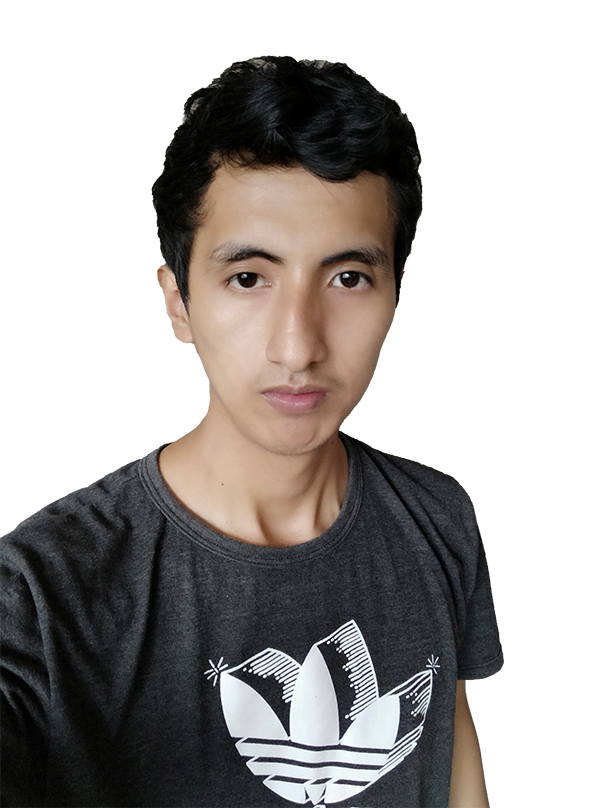
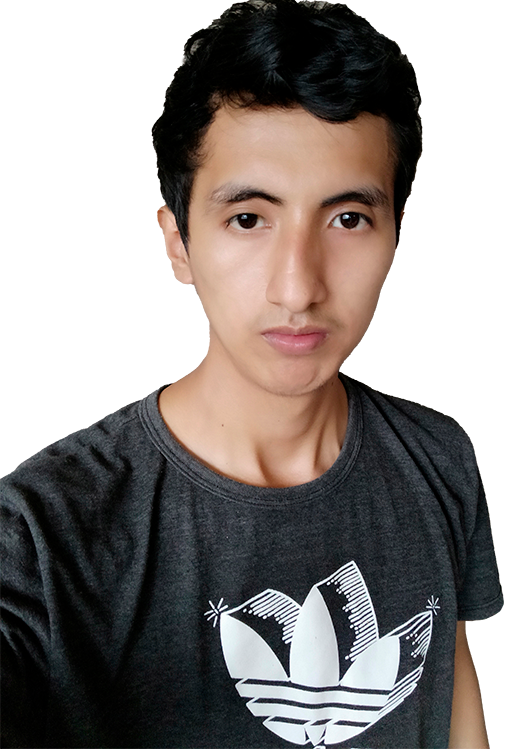
Primera parte listo, imagen escalada, botton listo

diff --git a/index.html b/index.html
@@ -24,15 +24,15 @@
         </header>
         <main class="main">
             <div class="info-content">
-                <h1>I'm <span>Jhordan</span>Cordova</h1>
+                <h1 class="name">I'm <span>Jhordan</span> Cordova</h1>
                 <p>Lorem ipsum dolor sit amet consectetur adipisicing elit. Aliquam optio exercitationem iste suscipit quae distinctio vel culpa magnam. Quasi porro aliquam sint accusamus libero a iusto, unde cumque possimus repellat!</p>
                 <a href="#" download>
-                    <button>
+                    <button class="download-cv">
                         Download CV
                     </button>
                 </a>
             </div>
-            <img src="/assets/img/Perfil_sin_fondo.png" alt="">
+            <img src="/assets/img/Perfil_sin_fondo.png" alt="Jhordan Sax Picture">
         </main>
     </div>
 </body>

diff --git a/css/styles.css b/css/styles.css
@@ -57,3 +57,41 @@ body {
     color: aqua;
     transition: ease-in .3s;
 }
+
+.main {
+    margin: 0 auto;
+    width: 80vw;
+    height: 80vh;
+    display: grid;
+    grid-template-columns: repeat(2, 1fr);
+    align-items: center;
+}
+
+.name {
+    font-size: 3em;
+}
+
+.name span {
+    color: aqua;
+}
+
+.download-cv {
+    padding: 10px 20px;
+    background-color: aqua;
+    border: none;
+    border-radius: 18px;
+    margin-top: 10px;
+    cursor: pointer;
+    box-shadow: 2px 3px 11px -5px rgba(102, 231, 200, .60);
+}
+
+.download-cv:hover {
+    background-color: #fff;
+    box-shadow: none;
+}
+
+.main img {
+
+    border: 7px solid aqua;
+    transform: scale(0.75, 0.75);
+}
